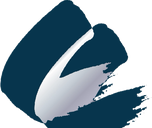
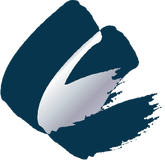
Stop clipping the brush mark

diff --git a/apartment-turnover-scanner_1/public/index.html b/apartment-turnover-scanner_1/public/index.html
@@ -5,14 +5,14 @@
 <meta name="viewport" content="width=device-width, initial-scale=1, viewport-fit=cover" />
 <meta name="theme-color" content="#07354D" />
 <title>Serial Number Scanner &middot; Carter &amp; Carter</title>
-<link rel="icon" type="image/png" href="/favicon.png?v=1" />
-<link rel="apple-touch-icon" href="/favicon.png?v=1" />
-<link rel="stylesheet" href="/styles.css?v=16" />
+<link rel="icon" type="image/png" href="/favicon.png?v=3" />
+<link rel="apple-touch-icon" href="/favicon.png?v=3" />
+<link rel="stylesheet" href="/styles.css?v=17" />
 </head>
 <body>
 <div id="app">
   <header class="topbar">
-    <img class="topbar-logo" src="/mark.png?v=2" alt="Carter &amp; Carter" />
+    <img class="topbar-logo" src="/mark.png?v=3" alt="Carter &amp; Carter" />
     <div class="topbar-title">Serial Number Scanner</div>
   </header>
 
